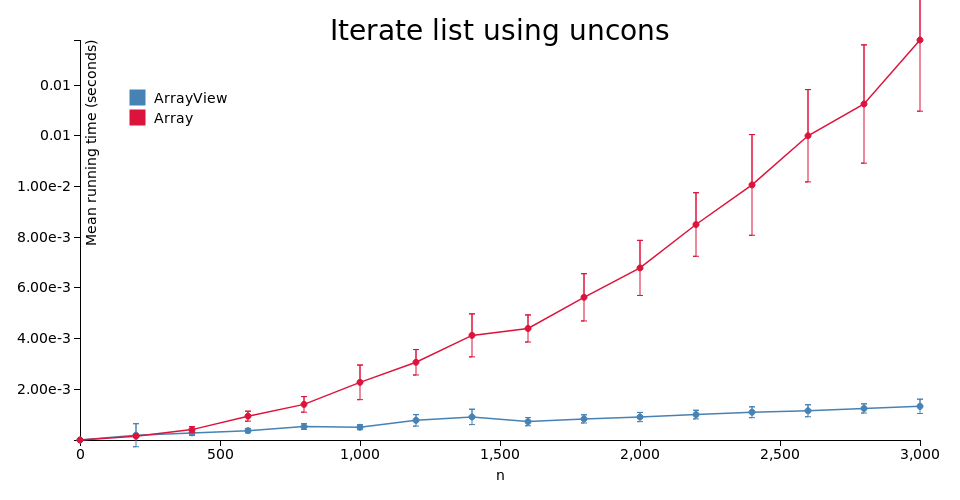
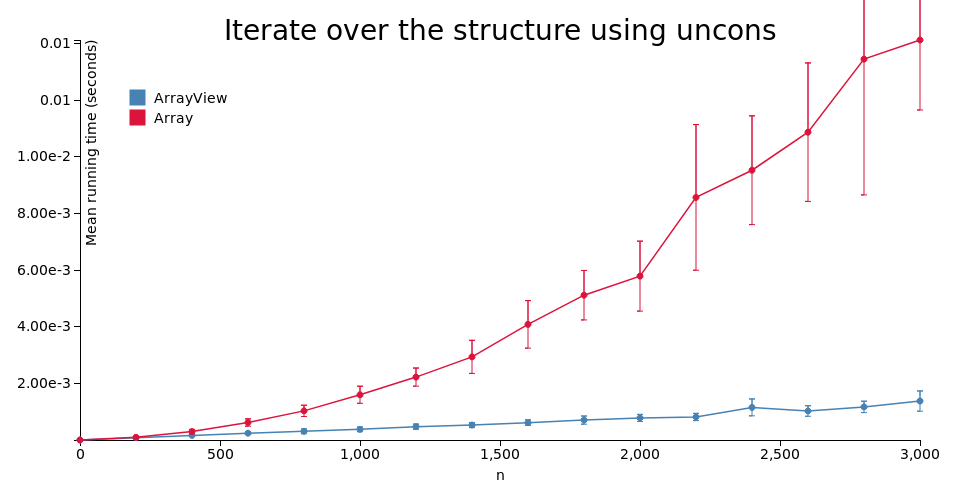
README, more tests, fixes

diff --git a/README.md b/README.md
@@ -1,16 +1,34 @@
 # purescript-array-views
 
-`uncons` on `Array` is `O(n)` because [`.slice()` is used](https://github.com/purescript/purescript-arrays/blob/d218f6f6fa1a41ce3bd6daeef72f9b197c1eb8d2/src/Data/Array.js#L109)  to preserve purity. Thus iterating over `Array` using `uncons` is `O(n^2)`.
+The time complexity of `uncons` called on `Array` is *O(n)* because [`.slice()` is used](https://github.com/purescript/purescript-arrays/blob/d218f6f6fa1a41ce3bd6daeef72f9b197c1eb8d2/src/Data/Array.js#L109)  to preserve purity. Thus iterating over `Array` using `uncons` is *O(n<sup>2</sup>)*.
 
-But since purescript `Array`s are persistent at runtime, it is possible to just "manipulate the pointers" instead on actually calling `.slice()`.
+But since purescript `Array`s are persistent at runtime, it is possible to defer multiple `.slice()` calls by introducing another data structure and operating on it instead.
 
-`ArrayView` contains a pointer to some `Array` coupled with two numbers: index where the view "starts" relative to the beginning of the array and the length of the view.
+`ArrayView` contains a pointer to some `Array` coupled with two numbers: index where the view starts relative to the beginning of the array and the length of the view.
 
 ```purescript
 data ArrayView a = View Int Int (Array a)
 ```
 
-Every `.slice()`-dependent function in `Data.Array` has the corresponding function in `Data.ArrayView` that just shifts the indices which is `O(1)`.
+
+So, instead of slicing, it is possible to just shift the indices.
+
+Obviously, this technique does not improve the asymptotics of `cons`/`snoc`/`append` and other array constructing functions, so if the code uses these, there will be no benefit in replacing `Array` with `ArrayView`. 
+
+It should be noted once more that iterating over ordinary arrays using `cons` and `uncons`, which is common in Haskell (with lists) is a bad practice. Often such code can be refactored to use some type of fold and/or other standard functionals. However, there are cases where it is not straightforward, or where using `uncons`/`unsnoc` is more syntactically appealing, e.g. when iterating over many structures at once.
+
+## Asymptotics comparison
+
+For every function in `Data.Array` there is a corresponding function in `Data.ArrayView`, though most of them are plain reuses up to conversions between `Array` and `ArrayView`. Those with different time complexities are listed below:
+
+| functions | Array | ArrayView | Note |
+|----------|-------|-----------|-------|
+| `slice`, `uncons`, `unsnoc`, `tail`, `init`, `take`, `drop`, `takeEnd`, `dropEnd` | *O(n)* | *O(1)* | *n* is the length of the resulting array
+|`span` (used by `takeWhile`, `dropWhile`) | *O(n+m)* | *O(n)* | *n* is the length of the `init` array, *m* is the length of the `rest` |
+| `ArrayView.toArray` |  | *O(n)* | *O(1)* if the given view corresponds to the whole array |
+| `ArrayView.fromArray` | *O(1)* | |
+
+## Benchmarks
 
 ![](img/withUncons.png)
 
